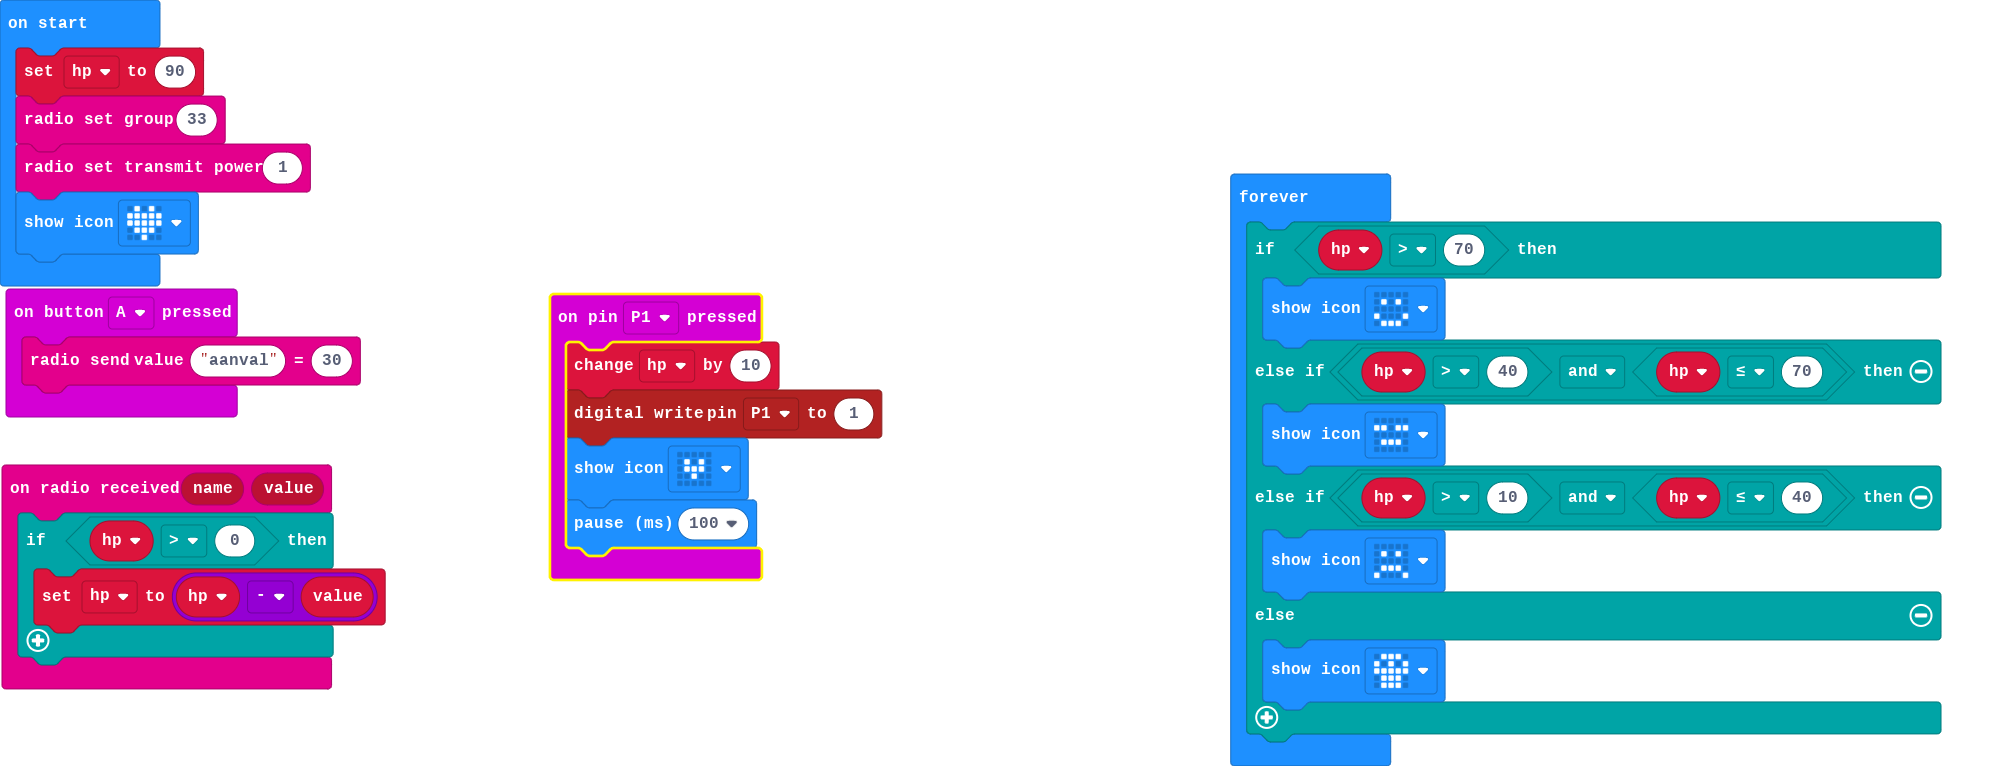
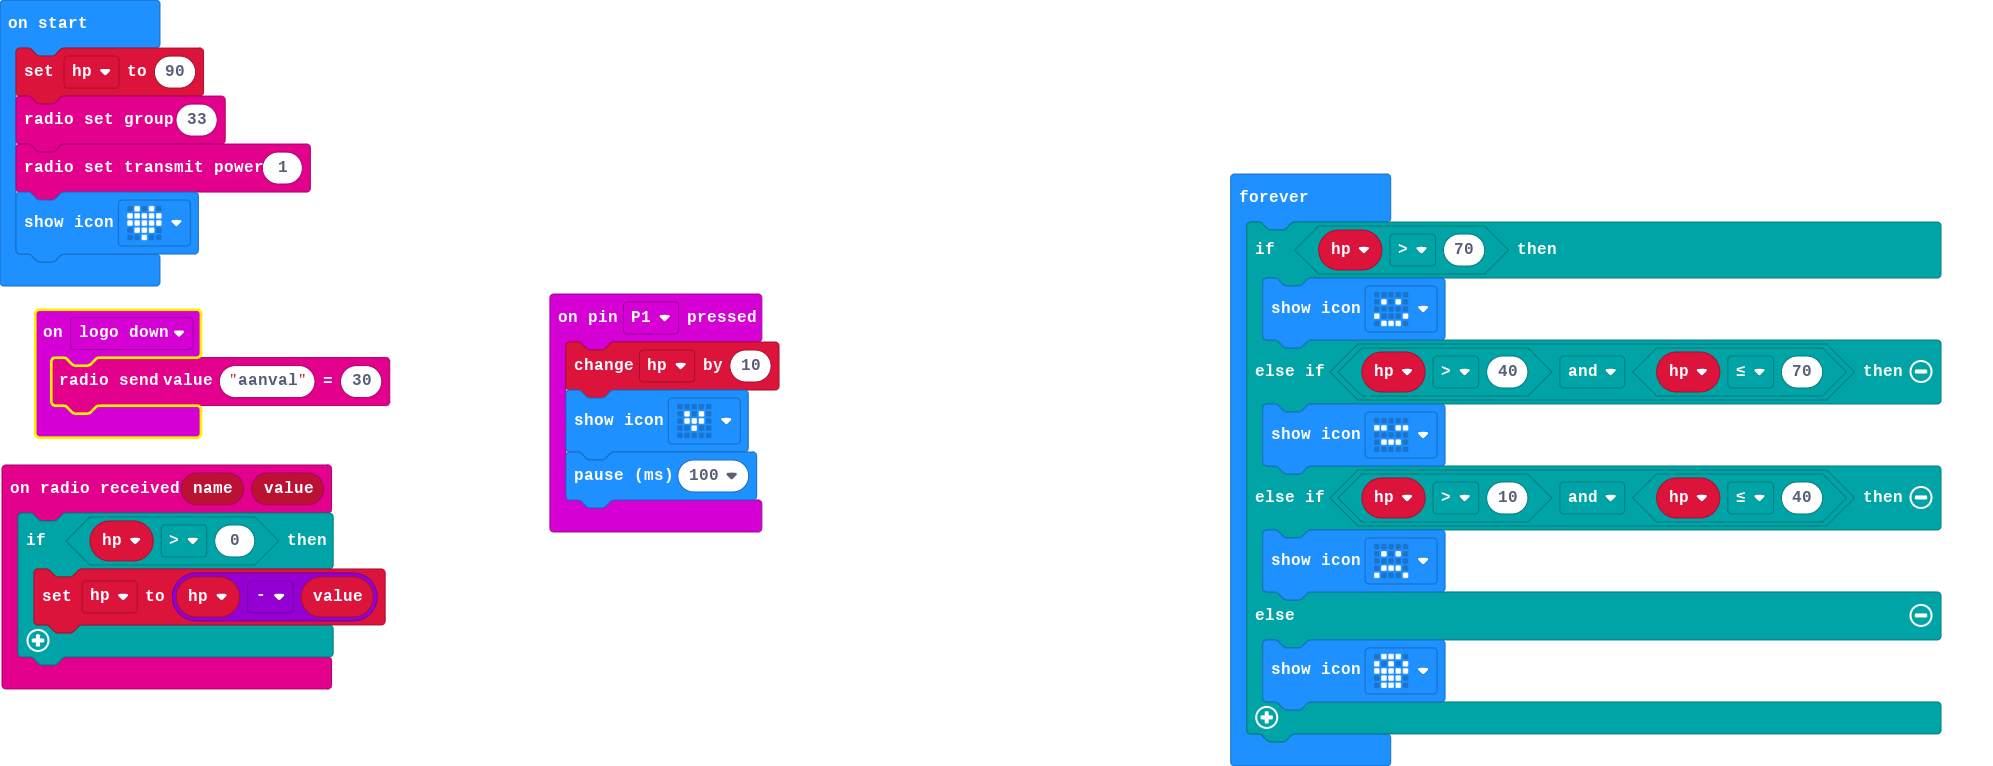
Update main.blocks, main.ts

diff --git a/main.ts b/main.ts
@@ -1,9 +1,5 @@
-input.onButtonPressed(Button.A, function () {
-    radio.sendValue("aanval", 30)
-})
 input.onPinPressed(TouchPin.P1, function () {
     hp += 10
-    pins.digitalWritePin(DigitalPin.P1, 1)
     basic.showIcon(IconNames.SmallHeart)
     basic.pause(100)
 })
@@ -11,6 +7,9 @@ radio.onReceivedValue(function (name, value) {
     if (hp > 0) {
         hp = hp - value
     }
+})
+input.onGesture(Gesture.LogoDown, function () {
+    radio.sendValue("aanval", 30)
 })
 let hp = 0
 hp = 90
